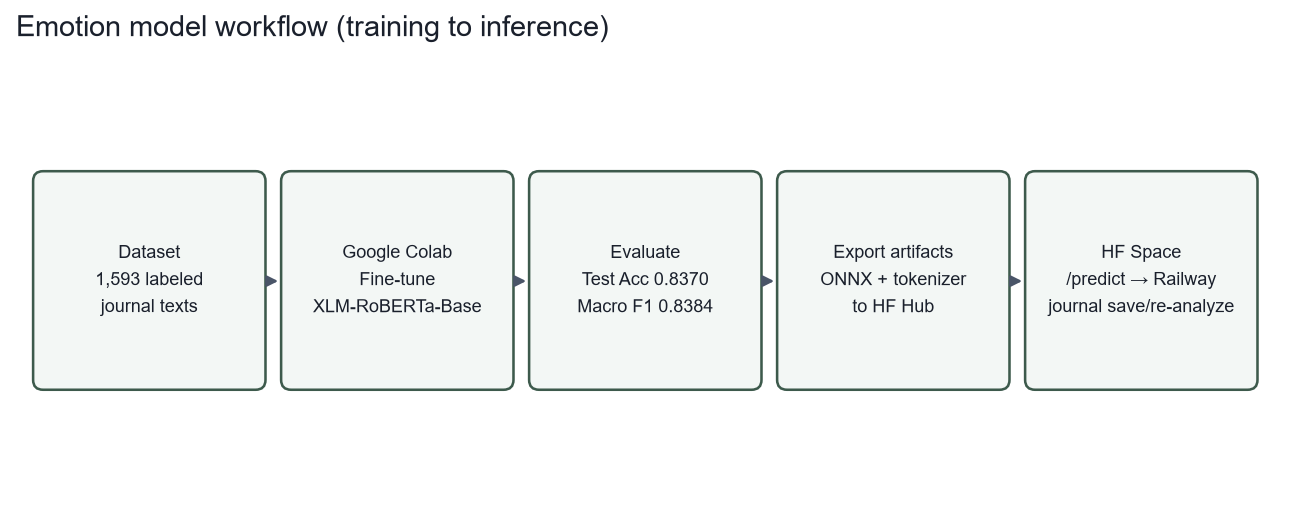
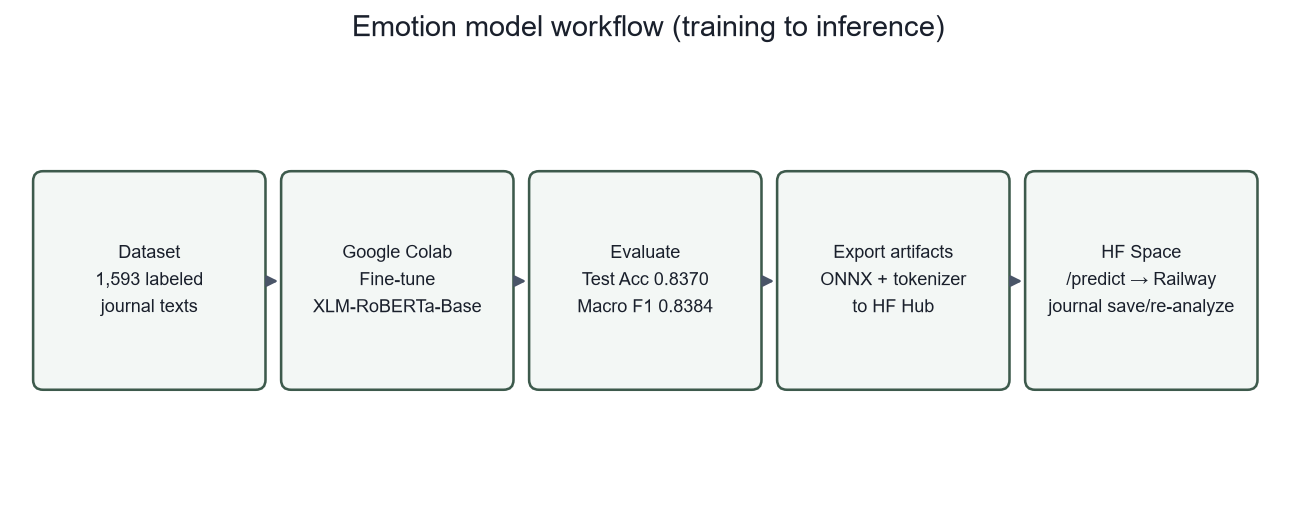
Center diagram titles above the diagram instead of left-aligning

Changed region(s): [[0.0, 0.0295, 0.7407, 0.0884]]

diff --git a/docs/project-documentation/generate_figures.py b/docs/project-documentation/generate_figures.py
@@ -140,7 +140,7 @@ def architecture():
     ax.set_xlim(0, 10.2)
     ax.set_ylim(0, 6.8)
     ax.axis("off")
-    ax.set_title("DiariCore — current runtime architecture", fontsize=13, pad=8, loc="left")
+    ax.set_title("DiariCore — current runtime architecture", fontsize=13, pad=8, loc="center")
 
     box(ax, 0.25, 5.6, 2.2, 0.9, "User\nBrowser / Installed PWA", fc="#EEF4F1", bold=True)
     box(ax, 3.15, 5.6, 3.7, 0.9, "Railway web service\nFlask + Gunicorn  (diaricore.up.railway.app)", fc="#E8F0EC", bold=True)
@@ -175,7 +175,7 @@ def ml_pipeline():
     ax.set_xlim(0, 10.2)
     ax.set_ylim(0, 3.6)
     ax.axis("off")
-    ax.set_title("Emotion model workflow (training to inference)", fontsize=13, pad=6, loc="left")
+    ax.set_title("Emotion model workflow (training to inference)", fontsize=13, pad=6, loc="center")
     steps = [
         (0.15, "Dataset\n1,593 labeled\njournal texts"),
         (2.15, "Google Colab\nFine-tune\nXLM-RoBERTa-Base"),
@@ -197,7 +197,7 @@ def erd():
     ax.set_xlim(0, 11.2)
     ax.set_ylim(0, 7.8)
     ax.axis("off")
-    ax.set_title("Logical data model (simplified)", fontsize=13, pad=8, loc="left")
+    ax.set_title("Logical data model (simplified)", fontsize=13, pad=8, loc="center")
 
     def entity(x, y, w, h, title, fields):
         header_h = 0.4
